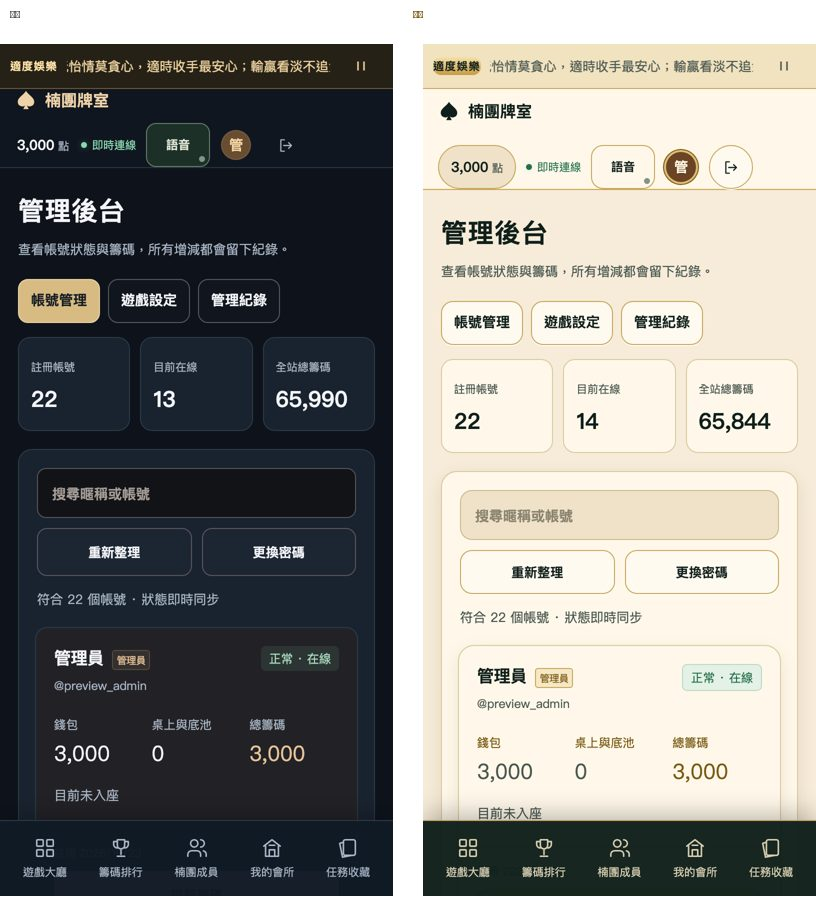
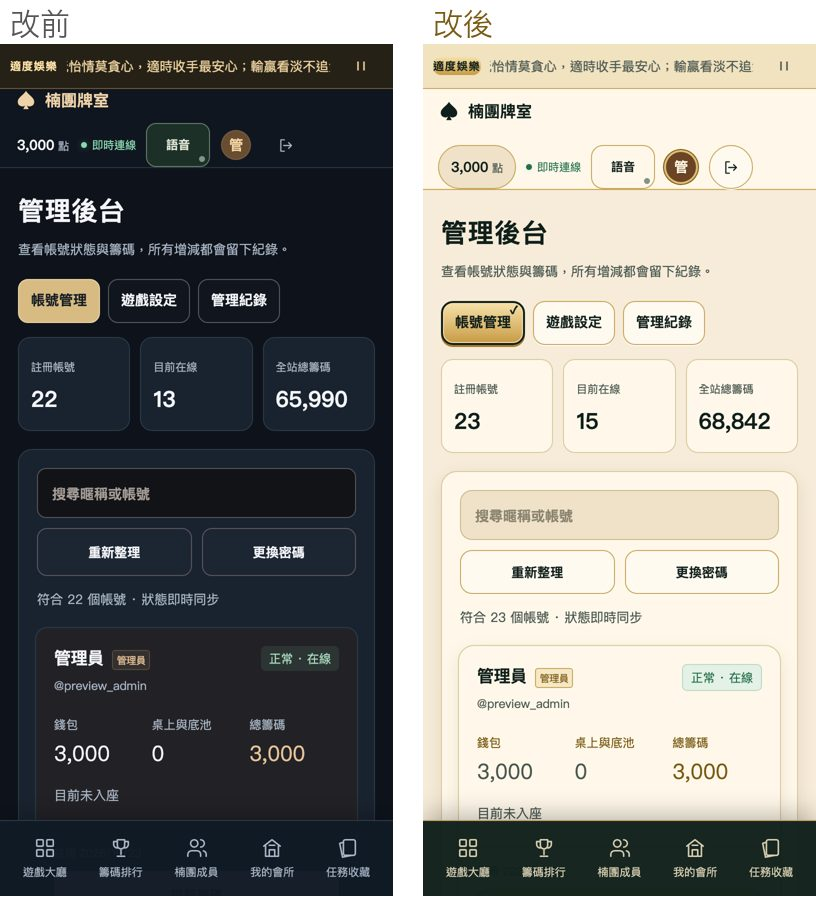
docs: correct handoff claims (sizes, !important, checks), desktop before/after, asset table

diff --git a/docs/design-proposals/cream-theme/HANDOFF.md b/docs/design-proposals/cream-theme/HANDOFF.md
@@ -5,27 +5,29 @@
 
 ## 一、要你做的事（只有一件）
 
-`server.py` 的靜態圖白名單要多放行一個資料夾。大廳遊戲封面放在 `static/assets/covers/*.webp`，目前會 404。
+`server.py` 的靜態圖白名單要多放行 11 個封面檔。大廳遊戲封面放在 `static/assets/covers/*.webp`，目前會 404。
 
-在 `static` 圖片放行那一行（`elif path=='/assets/poker-night.webp' or ...`）最後面，加上一個條件，放行 `/assets/covers/` 底下小寫字母、數字、橫線命名的 webp：
+在圖片放行那一行（`elif path=='/assets/poker-night.webp' or ...`）最後面，加上一個條件：
 
 ```text
-or re.fullmatch(r'/assets/covers/[a-z0-9-]+\.webp', path)
+or re.fullmatch(r'/assets/covers/(?:holdem|big2|blackjack|roulette|baccarat|slot|mines|dice|tower|inbetween|mahjong)\.webp', path)
 ```
 
-這是後端檔案，我們沒有放進任何 commit，等你確認要這樣改。沒放行之前，封面只會看到原本的線條圖，其他功能不受影響。
+刻意列出確切的 11 個檔名，不用萬用字元：這樣不存在的檔名仍然是 404，不會落到 `read_bytes()` 變成 500。完整補丁檔在 Steven 的工作台（`交接/server-放行封面圖.patch`）。
+
+這是後端檔案，我們沒有放進任何 commit，等你確認要這樣改。沒放行之前，封面只會看到原本的線條圖，其他功能不受影響。這條路徑目前沒有測試，建議放行時順手補一個。
 
 ## 二、改了什麼
 
 | 層級 | 檔案 | 說明 |
 | --- | --- | --- |
-| 自由改（CSS） | `static/night.css` | 尾端加了一段有開始／結束註解的主題區塊。用 `#app` `#modal` `#social-root` 前綴取得優先權，沒有新增 `!important` |
+| 自由改（CSS） | `static/night.css` | 尾端加了一段有開始／結束註解的主題區塊。用 `#app` `#modal` `#social-root` 前綴取得優先權。**有新增 2 個 `!important`**（`.account-delete` 的框色與字色，因為 `profile.css` 本來就用 `!important` 設定它）。注意：這份主題用全站通用選擇器，和 CONTRIBUTING 的「先以頁面根 class 限定」不同，是刻意的（整站換色）|
 | 自由改（CSS） | `static/ledger.css`、`ledger.html` | 舊記帳頁同樣主題；`theme-color` 改為奶油色 |
 | 自由改（CSS） | `static/index.html` | `night.css` 版本號、`<title>`、`theme-color`（#f6ecd9） |
 | 自由改（圖） | `static/favicon.svg` | 墨綠盾牌＋金黑桃 |
-| 自由改（圖） | `static/assets/poker-night.webp`、`clubhouse/tier-*.webp`、`covers/*.webp` | 大廳主圖、會所四級、11 款遊戲封面。無文字、無真人。大小比原本小 |
-| 要回報（JS 模板） | `static/game.js` | 只有 3 個字串：`brand()` 的「楠團德州撲克／地下牌室」→「楠團牌室／私人牌室」；邀請複製文字；牌桌絨布浮水印 |
-| 要回報（JS 模板） | `static/clubhouse-scene.js` | 員工走路改成 3 張 2D 貼圖（base64 內嵌，不需放行）；走路起點重設；新增 `sprite(key)` 給 profile.js 用 |
+| 自由改（圖） | `static/assets/poker-night.webp`、`clubhouse/tier-*.webp`、`covers/*.webp` | 大廳主圖、會所四級、11 款遊戲封面。無文字、無真人。大小：會所 8 張 709 KB → 762 KB（+7%）、主圖 68 → 78 KB、新增 11 張封面共 287 KB |
+| 要回報（JS 模板） | `static/game.js` | 只有 3 個字串：`brand()` 的「楠團德州撲克／地下牌室」→「楠團牌室／私人牌室」；牌桌絨布浮水印；邀請複製文字（這一個在複製按鈕的點擊處理程式裡，只換字串，不是模板） |
+| 要回報（JS 模板） | `static/clubhouse-scene.js` | 員工走路改成 3 張 2D 貼圖（base64 內嵌，不需放行；這個檔案因此從 3 KB 變 45 KB，每一頁都會載入。若介意，可改成獨立 webp 並加入白名單）；走路起點重設；新增 `sprite(key)` 給 profile.js 用 |
 | 要回報（JS 模板） | `static/profile.js` | `portrait()` 優先用貼圖上半身，沒有貼圖就退回原本向量圖；`pet()` 重畫狐狸、貓（兩隻長得不一樣） |
 | 要回報（JS 模板） | `static/bonus.js` | 拉霸符號（7、皇冠、寶石、鈴鐺、櫻桃、BAR）、骰面點數、礦區／爬塔的寶石與地雷，原本是文字字元，改成內嵌小 SVG。只換 span 裡的內容；`aria-label`、`data-*`、動畫作用的節點（`.slot-reel span`、`.die-face`）都沒變 |
 | 文件 | `docs/ASSETS.md`、`docs/assets-manifest.json`、`docs/design-proposals/asset-prompts/` | 素材來源與提示詞（可重現） |
@@ -44,18 +46,24 @@ or re.fullmatch(r'/assets/covers/[a-z0-9-]+\.webp', path)
 
 | 項目 | 結果 |
 | --- | --- |
-| `node scripts/check-js.cjs` | 通過（17 個檔） |
-| `node scripts/check-docs.cjs` | 通過 |
+| `node scripts/check-js.cjs`、`check-docs.cjs` | 通過 |
 | `python3 -m unittest discover` | 351 個測試全過 |
-| `npm run test:ui`（瀏覽器流程） | 通過，無錯誤 |
-| 結構比對 | 改前改後 35 頁抓 DOM，id、`data-*` 一個都沒少（德州頁多出的差異是動態 class） |
-| 寬度 | 320／393／768／844×390／1366：全部 0 頁左右溢出 |
-| 對比 | 腳本逐元素量文字與底色對比（WCAG AA）；手機 41 頁剩 1 種不足，已記錄 |
-| 點擊範圍 | 腳本量按鈕大小；剩少數行內連結（成員名字連結、麻將玩家名）不到 44px，是原本的版面 |
+| `npm run test:ui`（瀏覽器流程） | 本機通過；CI 的 `pull_request` 那輪通過 |
+| DOM 比對 | 改前改後 35 頁抓 DOM，id、`data-*` 沒有遺失（大老二一頁少了出牌按鈕，是這次輪到對手出牌） |
+| 寬度 | 320／393／768／844×390／1366，47 張截圖全部 0 左右溢出 |
+| 文字對比 | 腳本逐元素量（WCAG AA）。**限制：底圖是照片的元素（例如主圖上的字）量不到，那幾處是人工看圖修的** |
+| 選中狀態 | 腳本檢查每組 `aria-pressed`／`aria-selected` 按鈕，按下與沒按下外觀不同：0 組相同（Opus 審查曾抓到 11 組，已修） |
+| 點擊範圍 | 腳本量按鈕大小；仍有少數不到 44px：成員名字連結、麻將玩家名連結、後台房間連結、`#toggle-password`（58×42）、開桌視窗的私人包廂勾選框（20×20）、舊記帳頁 `select#unit`（60×34）。這些大多是原本的版面，沒有處理 |
+| 沒測 | Safari 實機；低階手機上 `feTurbulence` 雜訊背景（牌桌絨布）的繪製效能 |
+
+另外有一位獨立審查者（Opus 5.5）審過這批變更，意見與處理方式見 PR 留言。
 
 ## 六、已知限制
 
 - 輪盤盤面沿用原本的 SVG（金框、酒紅與墨黑口袋，已經跟主題一致），沒有重畫。
 - 外觀收藏 14 款都在「試看」舞台逐一截圖檢查過（舞台刻意保留深色，讓光效看得出來）；一款稱號牌（深夜常客）的字色已修。
 - 沒有做深色模式切換：主題是整站奶油白，沒有保留舊深色版的開關。
+- 伺服器對所有檔案送 `Cache-Control: no-store` 且不壓縮，所以封面與主圖每次進大廳都會重新下載（約 400 KB）。這是原本的設定，沒有動；之後若要改善，可以對 `/assets/` 開快取。
+- 有用到 `:has()`（會所頁與牌桌頁的版面規則），不支援的舊瀏覽器那幾條規則會失效。
+- `工具/套用主題.sh`（Steven 的工作台，不在 repo）每次從基準提交 `98efd44` 重建 `night.css`；`main` 之後若有人改了 `night.css`，需要先合併再重建。
 - 第二審（Codex）的完整意見在 Steven 的工作台，主要是預覽圖與真實元件的差異，實作以真實元件為準。

diff --git a/docs/ASSETS.md b/docs/ASSETS.md
@@ -20,9 +20,9 @@
 
 | 素材 | 檔案 | 生成方式 |
 | --- | --- | --- |
-| 大廳主圖 | static/assets/poker-night.webp | `hero-lobby` 提示詞，裁成 3:2，1400×933 |
+| 大廳主圖 | static/assets/poker-night.webp | `hero-lobby` 提示詞，裁成 3:2，1400×933（原本是 1400×600，比例從 7:3 改成 3:2；畫面用 cover 裁切，只是裁切位置不同，左側留白給標題）|
 | 遊戲封面 ×11 | static/assets/covers/*.webp | `cover-*` 提示詞，裁成 4:3，480×360 |
-| 會所四級（桌機＋手機） | static/assets/clubhouse/tier-1～4(-small).webp | 同一街角場景；第 1 級先畫，第 2～4 級各以前一級為參考圖逐級升級；桌機 1280×853，手機 640×427 |
+| 會所四級（桌機＋手機） | static/assets/clubhouse/tier-1～4(-small).webp | 同一街角場景；第 1 級先畫，第 2～4 級各以前一級為參考圖逐級升級；桌機 1200×800，手機 600×400 |
 | 員工 3 人走路貼圖 | 內嵌在 static/clubhouse-scene.js（base64 webp，高 240） | `staff-*` 提示詞，純洋紅背景生成後色鍵去背；同一張圖也用在 profile.js 的員工卡半身像 |
 | 牌背、絨布紋理 | 不是檔案，在 night.css 以內嵌 SVG 產生 | 手寫 |
 | 拉霸符號、骰面、礦區寶石與地雷、狐狸、貓 | 內嵌 SVG（bonus.js、profile.js） | 手寫 |
